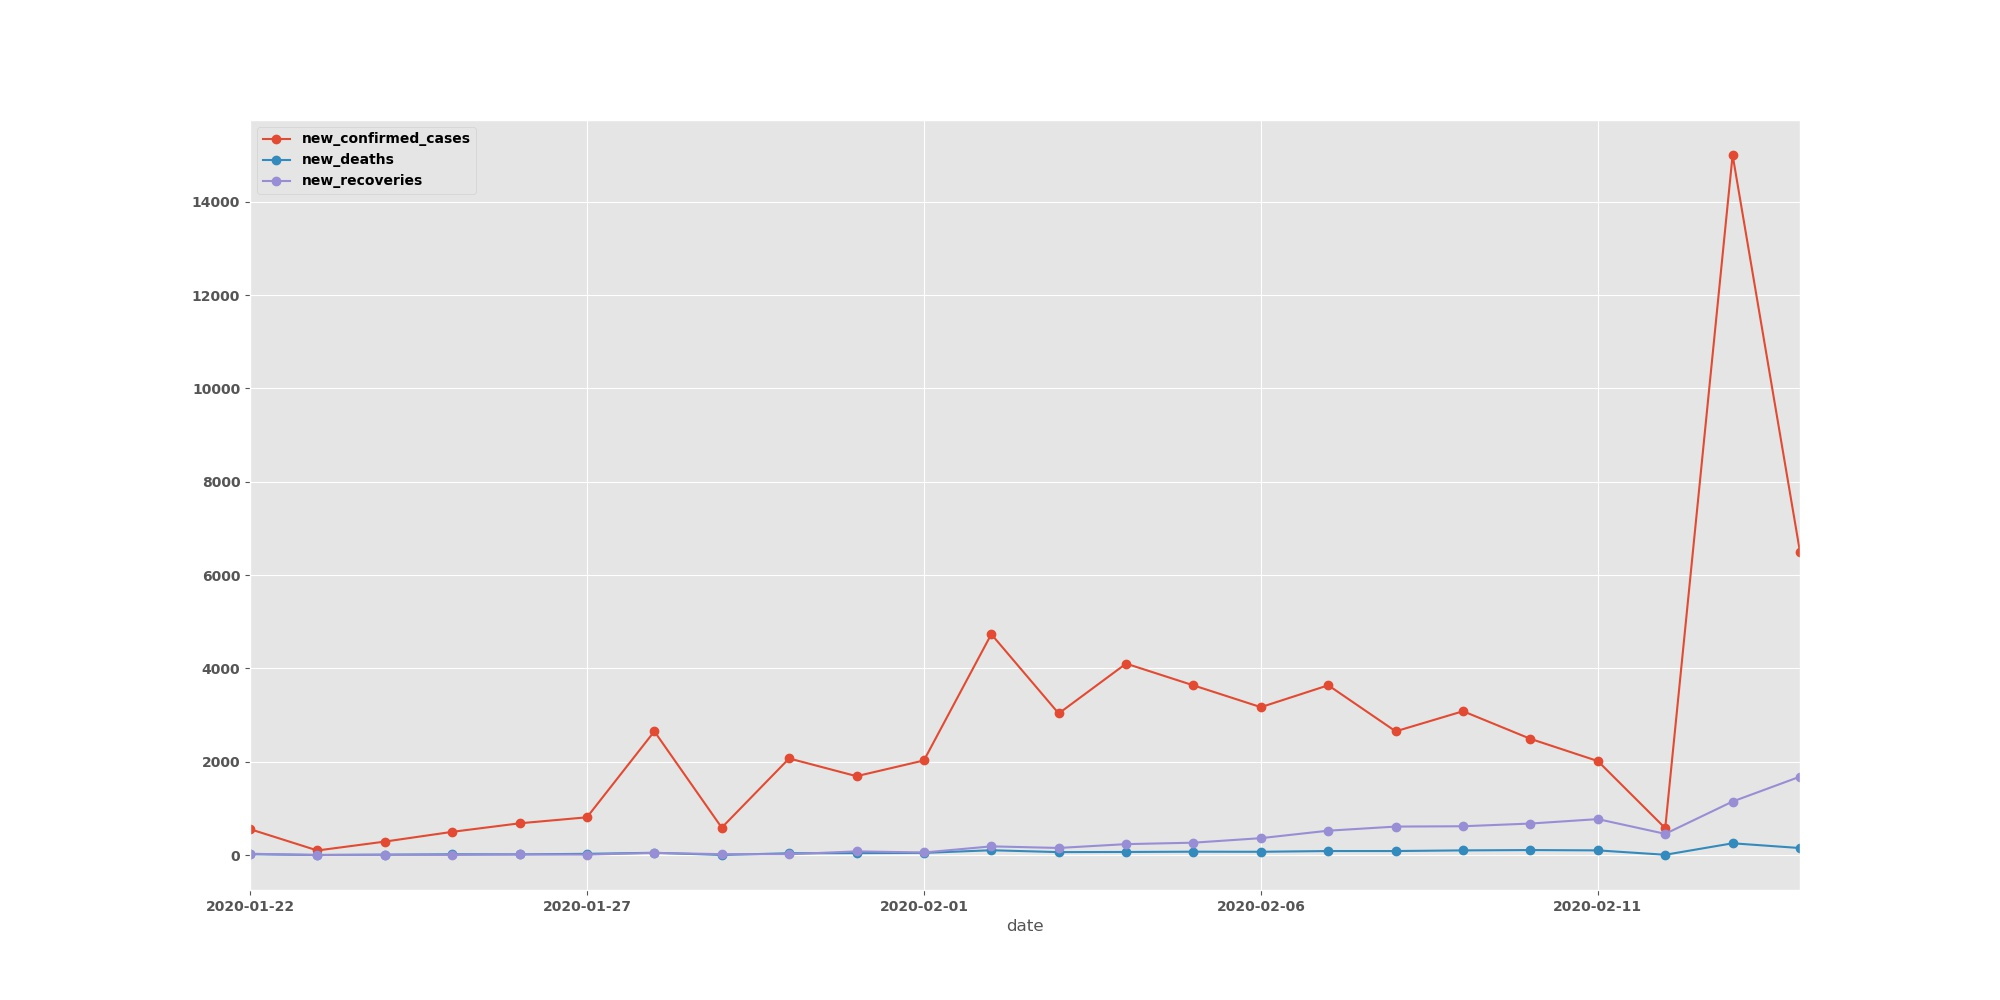
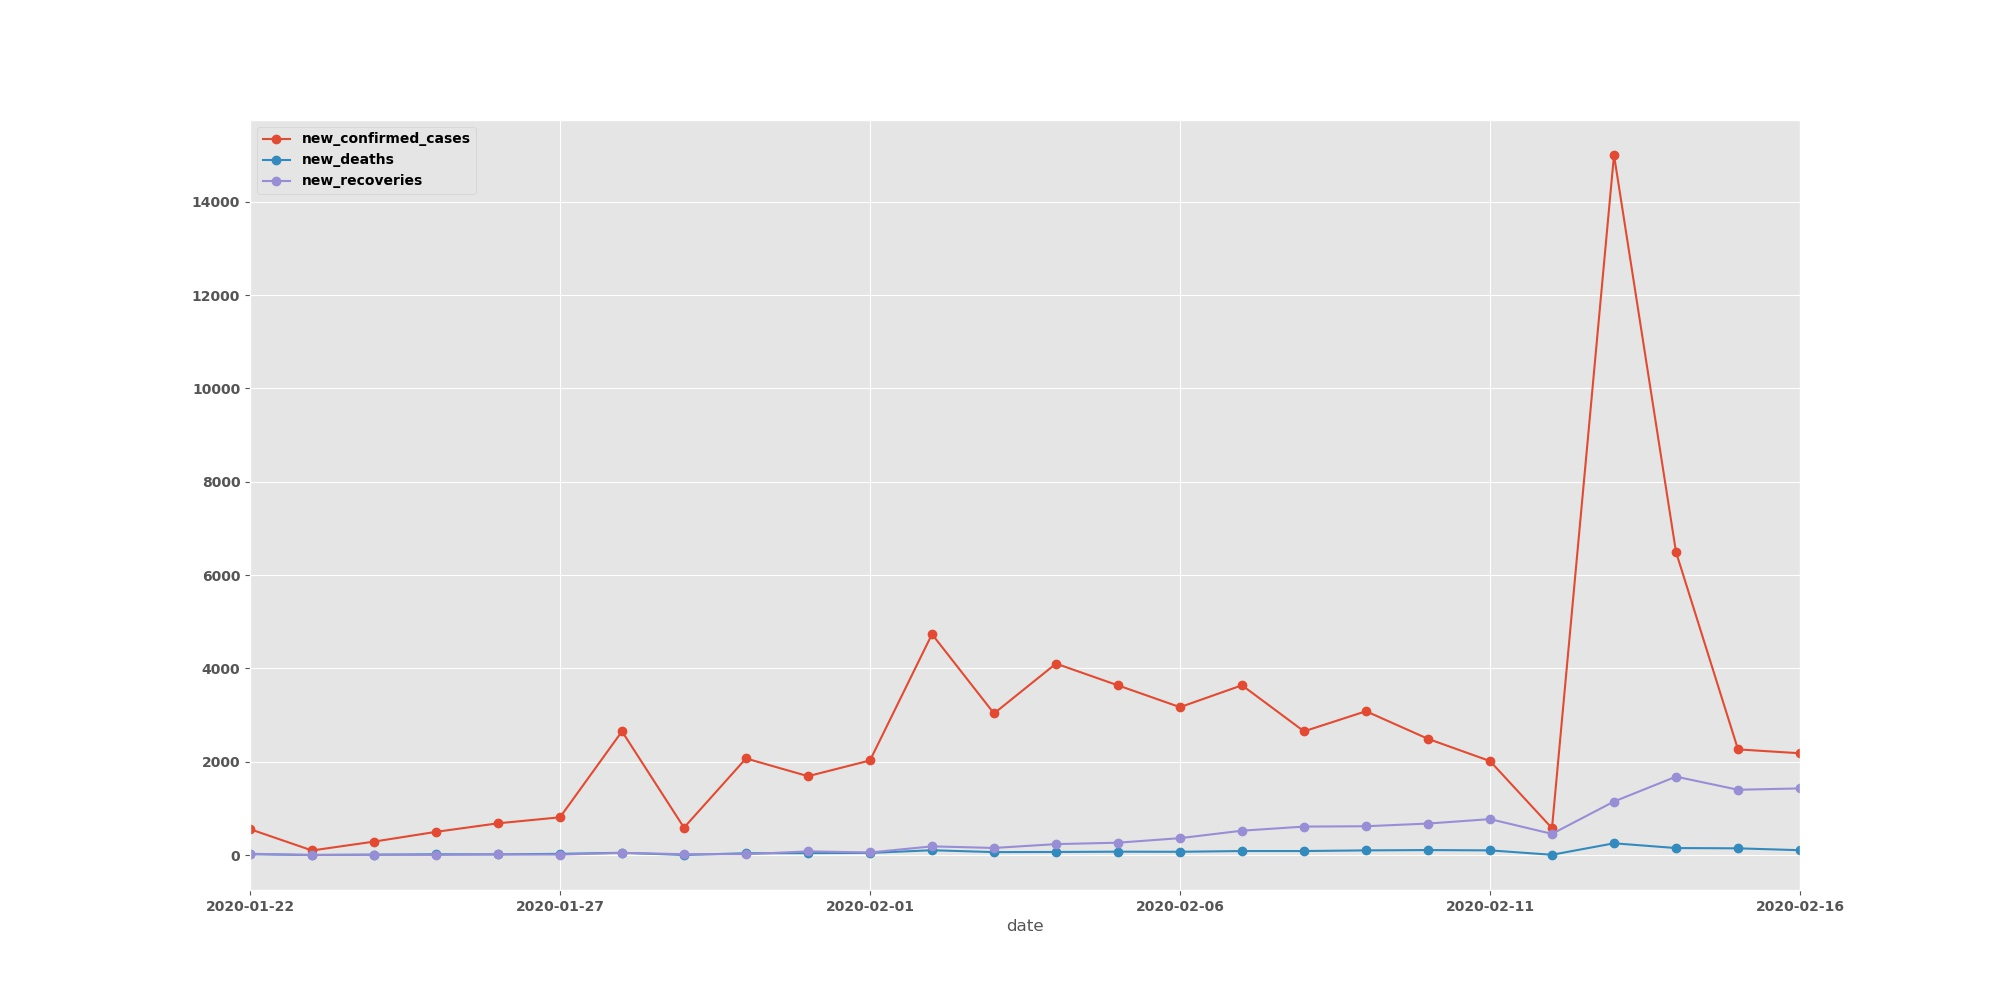
ADD - added report for 17th of feb

diff --git a/README.md b/README.md
@@ -25,7 +25,7 @@ This plots will be updated <u>daily</u> to visualize the trend in accumalitive s
 - **<i>Deaths</i>**
 - **<i>Recoveries.</i>**
 
-Last updated: `2020-02-15`
+Last updated: `2020-02-17`
 
 **Trend Line**
 
